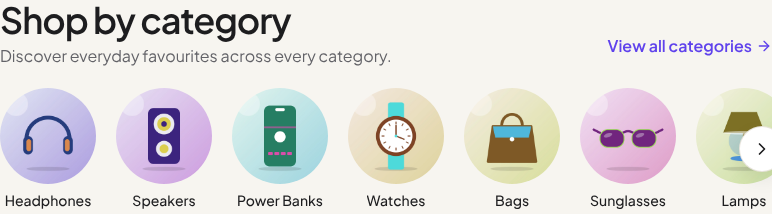
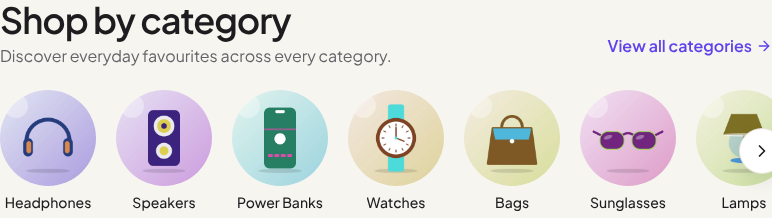
Shop by category: circles at every screen size (M118)
Owner request 2026-11-13: the round category photos replace the desktop
cards. Sizes per breakpoint: 76/12/12px on a phone, 96/20/14 from sm,
112/24/14 beside the intro column from lg, 124/28/15 from xl.
Type-check, lint (0 errors) and build pass; captures at 390, 820, 1024
and 1440 show no overflow and no errors.

Claude-Session: https://claude.ai/code/session_01Bwj5YD9LQvYaUEf2Nrq9iE

diff --git a/components/CategoryShowcase.tsx b/components/CategoryShowcase.tsx
@@ -3,73 +3,50 @@ import Link from 'next/link'
 import { ArrowRightIcon } from 'lucide-react'
 import type { Category } from '@/lib/payload/categories'
 import { CategoryIcon } from '@/lib/category-style'
-import { buttonClasses } from '@/components/ui/Button'
 import ScrollRail from '@/components/ui/ScrollRail'
 
-// M118: "Shop by category", the home page's category discovery, after the owner's two reference styles
-// (2026-11-12): an intro (heading, one line, "Explore all") beside a row of every category. The owner then
-// chose one style per screen size:
-//   below `lg` (phones and tablets)  round photos with the name under them: compact, 4-5 in view
-//   from `lg` (desktop)               photo cards: the 4:3 image with a round arrow, icon, name, "Shop now"
-// Both lists are in the server HTML; the one not shown is `display: none`, so it is out of the
-// accessibility tree and a screen reader or keyboard meets each category once. Adapted to the Mirza
-// identity (ADR-052): Plus Jakarta Sans only (no serif), violet for actions, warm wells and hairlines,
-// no shadows on cards. Every category in the admin's order (ADR-048), links in the server HTML (M40,
-// e2e/seo.spec.ts). Rows are swiped on touch and scrolled with ScrollRail's buttons from `md`.
-// A category without an image shows its icon. The circles have no white ring (owner review 2026-11-12:
-// compared with and without; without reads cleaner and shows more of the photo); hover adds a violet ring.
+// M118: "Shop by category", the home page's category discovery, after the owner's reference ("Style 3,
+// circular categories", 2026-11-12/13): round category photos with the name under them, at every screen
+// size. Below `lg` a header row (heading, "View all categories") sits above a swipeable row; from `lg`
+// an intro column (heading, one line, the link, a hairline on its right) sits beside the row, as in the
+// reference. The circles grow with the screen:
+//   phone 76px / gap 12 / 12px name   sm 96 / 20 / 14   lg 112 / 24 / 14   xl 124 / 28 / 15
+// No white ring (owner review: compared with and without; without reads cleaner and shows more photo);
+// hover adds a violet ring. Adapted to the Mirza identity (ADR-052): Plus Jakarta Sans only (no serif),
+// violet for actions, warm wells. Every category in the admin's order (ADR-048), one link each, all in
+// the server HTML (M40, e2e/seo.spec.ts). Swiped on touch, scrolled with ScrollRail's round buttons from
+// `md`. A category without an image shows its icon. (Photo cards for desktop were built, compared and
+// then dropped at the owner's request in favour of one style everywhere.)
 const imageOf = (category: Category) => (category.image && typeof category.image === 'object' ? (category.image.url ?? null) : null)
 
-// The row bleeds to the screen edge below `lg` so the next circle peeks in; from `lg` it sits in its column.
+// The row bleeds to the screen edge below `lg` so the next circle peeks in; from `lg` it sits in its
+// column. py-1.5 leaves room for the hover ring.
 const ROW =
-  'no-scrollbar -mx-4 flex snap-x snap-mandatory scroll-px-4 overflow-x-auto px-4 py-1 sm:-mx-6 sm:scroll-px-6 sm:px-6 lg:mx-0 lg:scroll-px-0 lg:px-0 [&>li]:shrink-0 [&>li]:snap-start'
-
-function CategoryCard({ category }: { category: Category }) {
-  const image = imageOf(category)
-  return (
-    <Link href={`/category/${category.slug}`} className="group flex h-full flex-col rounded-card border border-line bg-surface p-2 transition-colors hover:border-line-3">
-      <span className="relative flex aspect-[4/3] items-center justify-center overflow-hidden rounded-tile bg-surface-muted text-ink-3">
-        {image ? (
-          <Image
-            src={image}
-            alt=""
-            width={480}
-            height={360}
-            sizes="(min-width: 1280px) 200px, 17vw"
-            className="size-full object-cover transition duration-500 group-hover:scale-[1.04] motion-reduce:transition-none motion-reduce:group-hover:scale-100"
-          />
-        ) : (
-          <CategoryIcon category={category} size={32} strokeWidth={1.5} aria-hidden="true" />
-        )}
-        <span aria-hidden="true" className="absolute bottom-2 right-2 flex size-8 items-center justify-center rounded-full bg-surface text-ink shadow-chip transition-colors group-hover:bg-primary group-hover:text-on-primary">
-          <ArrowRightIcon size={16} />
-        </span>
-      </span>
-      <span className="flex min-w-0 items-center gap-2 px-1.5 pt-3">
-        <CategoryIcon category={category} size={18} strokeWidth={1.7} aria-hidden="true" className="shrink-0 text-ink-3" />
-        <span className="truncate text-sm font-semibold text-ink sm:text-base">{category.title}</span>
-      </span>
-      <span className="inline-flex items-center gap-1 px-1.5 pb-1.5 pt-1 text-xs font-semibold text-primary sm:text-sm">
-        Shop now <ArrowRightIcon size={14} aria-hidden="true" className="transition-transform group-hover:translate-x-0.5 motion-reduce:transition-none" />
-      </span>
-    </Link>
-  )
-}
+  'no-scrollbar -mx-4 flex snap-x snap-mandatory scroll-px-4 gap-3 overflow-x-auto px-4 py-1.5 sm:-mx-6 sm:scroll-px-6 sm:gap-5 sm:px-6 lg:mx-0 lg:scroll-px-0 lg:gap-6 lg:px-1 xl:gap-7 [&>li]:shrink-0 [&>li]:snap-start'
 
 function CategoryCircle({ category }: { category: Category }) {
   const image = imageOf(category)
   return (
-    <Link href={`/category/${category.slug}`} className="group flex flex-col items-center gap-2 rounded-tile text-center">
+    <Link href={`/category/${category.slug}`} className="group flex flex-col items-center gap-2 rounded-tile text-center lg:gap-3">
       <span className="block w-full rounded-full transition group-hover:ring-2 group-hover:ring-primary group-hover:ring-offset-2 group-hover:ring-offset-page">
         <span className="flex aspect-square items-center justify-center overflow-hidden rounded-full bg-surface-muted text-ink-3">
           {image ? (
-            <Image src={image} alt="" width={200} height={200} sizes="(min-width: 640px) 96px, 76px" className="size-full object-cover" />
+            <Image
+              src={image}
+              alt=""
+              width={248}
+              height={248}
+              sizes="(min-width: 1280px) 124px, (min-width: 1024px) 112px, (min-width: 640px) 96px, 76px"
+              className="size-full object-cover transition duration-500 group-hover:scale-[1.05] motion-reduce:transition-none motion-reduce:group-hover:scale-100"
+            />
           ) : (
-            <CategoryIcon category={category} size={26} strokeWidth={1.5} aria-hidden="true" />
+            <CategoryIcon category={category} size={28} strokeWidth={1.5} aria-hidden="true" />
           )}
         </span>
       </span>
-      <span className="line-clamp-2 text-xs font-medium leading-tight text-ink transition-colors group-hover:text-primary-dark sm:text-sm">{category.title}</span>
+      <span className="line-clamp-2 text-xs font-medium leading-tight text-ink transition-colors group-hover:text-primary-dark sm:text-sm xl:text-[0.9375rem]">
+        {category.title}
+      </span>
     </Link>
   )
 }
@@ -79,50 +56,29 @@ export default function CategoryShowcase({ categories = [] }: { categories?: Cat
   return (
     <section aria-labelledby="categories-heading" className="mx-4 mt-12 sm:mx-6 lg:mt-16">
       <div className="mx-auto max-w-7xl lg:grid lg:grid-cols-[15rem_minmax(0,1fr)] lg:items-center lg:gap-10">
-        {/* Intro: a heading, one honest line and "Explore all". Below `lg` it is a header row above the
-            categories; from `lg` a column with a hairline on its right, as in the reference. */}
-        <div className="flex items-end justify-between gap-4 lg:block lg:border-r lg:border-line lg:py-6 lg:pr-10">
+        {/* Intro: a heading, one honest line and "View all categories". Below `lg` a header row above the
+            circles; from `lg` a column with a hairline on its right, as in the reference. */}
+        <div className="flex items-end justify-between gap-4 lg:block lg:border-r lg:border-line lg:py-4 lg:pr-10">
           <div className="min-w-0">
             <h2 id="categories-heading" className="text-2xl font-semibold tracking-tight text-ink sm:text-4xl sm:tracking-tighter">
               Shop by category
             </h2>
             <p className="mt-1 hidden text-sm text-muted sm:block sm:text-base lg:mt-3">Discover everyday favourites across every category.</p>
           </div>
-          {/* The pill is desktop-only; a wrapper hides it, because the button's own inline-flex would
-              override a `hidden` class on the link itself. */}
-          <span className="hidden lg:mt-6 lg:block">
-            <Link href="/categories" className={buttonClasses({ size: 'md' })}>
-              Explore all <ArrowRightIcon size={16} aria-hidden="true" />
-            </Link>
-          </span>
           <Link
             href="/categories"
-            className="inline-flex min-h-11 shrink-0 items-center gap-1 text-sm font-semibold text-primary hover:underline hover:underline-offset-4 sm:text-base lg:hidden"
+            className="inline-flex min-h-11 shrink-0 items-center gap-1 text-sm font-semibold text-primary hover:underline hover:underline-offset-4 sm:text-base lg:mt-3"
           >
             View all categories <ArrowRightIcon size={16} aria-hidden="true" />
           </Link>
         </div>
 
-        {/* Phones and tablets: the circles. */}
-        <div className="mt-4 min-w-0 lg:hidden">
+        <div className="mt-4 min-w-0 lg:mt-0">
           <ScrollRail label="categories">
-            <ul className={`${ROW} gap-3 sm:gap-5`}>
+            <ul className={ROW}>
               {categories.map((category) => (
-                <li key={category.id} className="w-[76px] sm:w-24">
+                <li key={category.id} className="w-[76px] sm:w-24 lg:w-28 xl:w-[124px]">
                   <CategoryCircle category={category} />
-                </li>
-              ))}
-            </ul>
-          </ScrollRail>
-        </div>
-
-        {/* Desktop: the cards, five in the row. */}
-        <div className="hidden min-w-0 lg:block">
-          <ScrollRail label="categories">
-            <ul className={`${ROW} gap-4`}>
-              {categories.map((category) => (
-                <li key={category.id} className="w-[calc((100%-4rem)/5)]">
-                  <CategoryCard category={category} />
                 </li>
               ))}
             </ul>

diff --git a/docs/CHANGELOG.md b/docs/CHANGELOG.md
@@ -6,7 +6,7 @@ All notable changes to this project are documented here. Format loosely follows 
 
 ### Added
 
-- **`M118` Homepage redesign** (2026-11-12, Phase 2 of the premium storefront redesign; not deployed). The banner becomes an editorial split (solid panel, larger headline, one product photo; two columns from 768px); a new "Shop by category" grid of photo tiles replaces the small shortcut row; "Deals of the day" becomes "Limited-time deals" and shows its end date until the last 48 hours; the cash-on-delivery steps section is removed (owner, after review: no replacement); "Shop by category" follows the owner's reference (an intro column with "Explore all" beside a row of photo cards with an arrow, icon, name and "Shop now"; a circular style was also built and compared, and dropped); the footer lists every category. No schema, data or dependency change.
+- **`M118` Homepage redesign** (2026-11-12, Phase 2 of the premium storefront redesign; not deployed). The banner becomes an editorial split (solid panel, larger headline, one product photo; two columns from 768px); a new "Shop by category" grid of photo tiles replaces the small shortcut row; "Deals of the day" becomes "Limited-time deals" and shows its end date until the last 48 hours; the cash-on-delivery steps section is removed (owner, after review: no replacement); "Shop by category" follows the owner's reference: round category photos with names at every screen size (76px on a phone up to 124px on a wide desktop, beside an intro column from 1024px; photo cards were built, compared and dropped); the footer lists every category. No schema, data or dependency change.
 - **`M117` Hybrid palette applied** (2026-11-12; ADR-052; not deployed). Warm ivory page `#F7F5F0`, warm wells and hairlines, an aubergine `#352746` footer with a white keyboard focus ring, and the saved wishlist heart and wishlist badge in violet instead of sale pink. The admin's brand colours now read `app/tokens.css`, so its violet moves from `#5B3FD9` to the storefront's `#5F42EC`; admin surfaces are unchanged. Before/after captures and QA in `docs/redesign/phase1/`.
 - **`M116` Palette decision record** (2026-11-12, owner decision; docs only). ADR-052 accepts the hybrid palette: warm ivory page `#F7F5F0`, white cards, warm wells and lines, `#5F42EC` kept for every action, an aubergine `#352746` dark surface, no champagne and no second accent. It amends ADR-047 item 4 and records the earlier unrecorded neutral-surface change (`bc5a77a`).
 - **`M115` Design foundation** (2026-11-12, owner-authorized Phase 1a of the premium storefront redesign; not deployed). The raw palette moves to `app/tokens.css` (plain CSS, shareable with the admin) and the Tailwind colour tokens point at it; new `on-primary`, `inverse` and `on-inverse` roles and a `text-6xl` display step. New `components/ui/Button.tsx` (one pill button: primary, soft, outline; md/lg/xl) and `components/ui/Price.tsx` (price, struck MRP and discount) replace hand-written class strings on the product card, product page, empty states, filters, load more, address modal, checkout, order lookup and confirmation. The footer and inverse wordmark use the `inverse` roles; the skip link uses tokens. No visible colour change, no schema, data, checkout-logic or dependency change.

diff --git a/docs/redesign/phase2/README.md b/docs/redesign/phase2/README.md
@@ -17,6 +17,8 @@ Both reference styles were built in Mirza's identity and captured at 390, 820 an
 
 **Final (owner, 2026-11-12): both styles, by screen size.** Circles below `lg` (phones and tablets, under 1024px), the image cards with the intro column from `lg` (desktop). Both lists are in the server HTML; the hidden one is `display: none`, so keyboard and screen-reader users meet each category once. Captures: `category-styles/final-{mobile-390,tablet-820,desktop-1440}.png` (no overflow, no errors). The full-page `after/` set predates this split, so its phone and tablet home pages still show the cards.
 
+**Circles everywhere (owner, 2026-11-13):** the desktop cards are dropped; the circles are the one style at every size, with sizes per breakpoint: phone 76px circles / 12px gaps / 12px names; `sm` 96 / 20 / 14; `lg` 112 / 24 / 14 beside the intro column (heading, one line, "View all categories", hairline divider, as in the reference's Style 3); `xl` 124 / 28 / 15. Captures: `category-styles/final-{mobile-390,tablet-820,laptop-1024,desktop-1440}.png` (no overflow, no errors). The cards-only captures (`cards-*`) remain as the record of the comparison.
+
 **Circle ring (owner review, 2026-11-12):** the circles were captured with and without their white ring and hairline (`category-styles/ring-*.png` against `final-*.png`). **Chosen: no ring.** It reads cleaner and more editorial, shows about 10% more of each photo at the same size, and removes ten extra outlines from the row. Hover still adds a violet ring. Watch point: a category photo on a near-white backdrop has a softer edge against the ivory page; if the final photos need it, a faint hairline is a one-line change.
 
 Also: the footer lists **all** categories (it showed the first six, leaving four unreachable from it).

diff --git a/docs/MIGRATION_PLAN.md b/docs/MIGRATION_PLAN.md
@@ -1757,7 +1757,7 @@ Groups are labels, not a sequence. Read the **Order** column for execution.
 - **Commit message**: `Hybrid palette values, aubergine footer, shared admin palette (M117)`
 
 ### M118 — Homepage: editorial hero, Shop by category, honest deals
-- **Status (2026-11-12)**: **Done, in review** (not deployed). Phase 2 of the premium storefront redesign; authorized by the owner on 2026-11-12. Revised the same day on the owner's review: "Why shop with Mirza" removed with nothing in its place; "Shop by category" redesigned from the owner's two reference styles (cards chosen after a side-by-side capture).
+- **Status (2026-11-12)**: **Done, in review** (not deployed). Phase 2 of the premium storefront redesign; authorized by the owner on 2026-11-12. Revised the same day on the owner's review: "Why shop with Mirza" removed with nothing in its place; "Shop by category" redesigned from the owner's reference styles: after side-by-side captures it ends as round category photos at every size (owner, 2026-11-13), without a white ring, sized per breakpoint.
 - **Goal**: replace the run of near-identical grids with an editorial home page built only from existing data.
 - **Files**: `app/(public)/page.jsx` (order), `components/Hero.jsx`, `components/HeroSlider.tsx`, `components/CategoryShowcase.tsx` (new), `components/HeroShortcuts.tsx` and `components/CodSteps.tsx` (removed), `components/DealsOfTheDay.tsx`, `components/ui/Countdown.tsx`, `components/Footer.jsx` (all categories), `docs/redesign/phase2/`.
 - **Spec**: `docs/redesign/phase2/README.md`. No stored `tone`/`label` value added or renamed; "Featured" kept (ADR-022); promo cards unchanged (owner); only verified trust facts; `force-dynamic` kept on `/`.

diff --git a/docs/TASKS.md b/docs/TASKS.md
@@ -462,7 +462,7 @@ production build (`M49`) cannot assume a reachable database. `/` moved `○ Stat
 | `M115` | Design foundation: shared palette file (`app/tokens.css`), role tokens, shared `Button` and `Price` (no visible colour change) | **Done, in review** (2026-11-12). Phase 1a of the premium storefront redesign; owner authorized Phase 1 on 2026-11-12. Not deployed. |
 | `M116` | Palette decision record: ADR-052 hybrid palette (warm ivory surfaces, `#5F42EC` for actions, aubergine dark surface, no champagne); amends ADR-047 item 4 and records `bc5a77a` | **Done, in review** (2026-11-12). Owner decision 2026-11-12. Docs only. |
 | `M117` | Hybrid palette values (ADR-052): warm ivory surfaces, aubergine footer, violet saved-heart and wishlist badge; the admin's brand colours read the shared palette | **Done, in review** (2026-11-12). Not deployed. Before/after captures in `docs/redesign/phase1/`. |
-| `M118` | Homepage: editorial hero (one photo, display headline), "Shop by category" photo cards with an intro column (owner's reference), "Limited-time deals" with an end date, cash-on-delivery band removed (owner), all categories in the footer | **Done, in review** (2026-11-12). Phase 2; not deployed. Captures in `docs/redesign/phase2/`. |
+| `M118` | Homepage: editorial hero (one photo, display headline), "Shop by category" round category photos at every size, beside an intro column on desktop (owner's reference), "Limited-time deals" with an end date, cash-on-delivery band removed (owner), all categories in the footer | **Done, in review** (2026-11-12). Phase 2; not deployed. Captures in `docs/redesign/phase2/`. |
 
 ---
 
